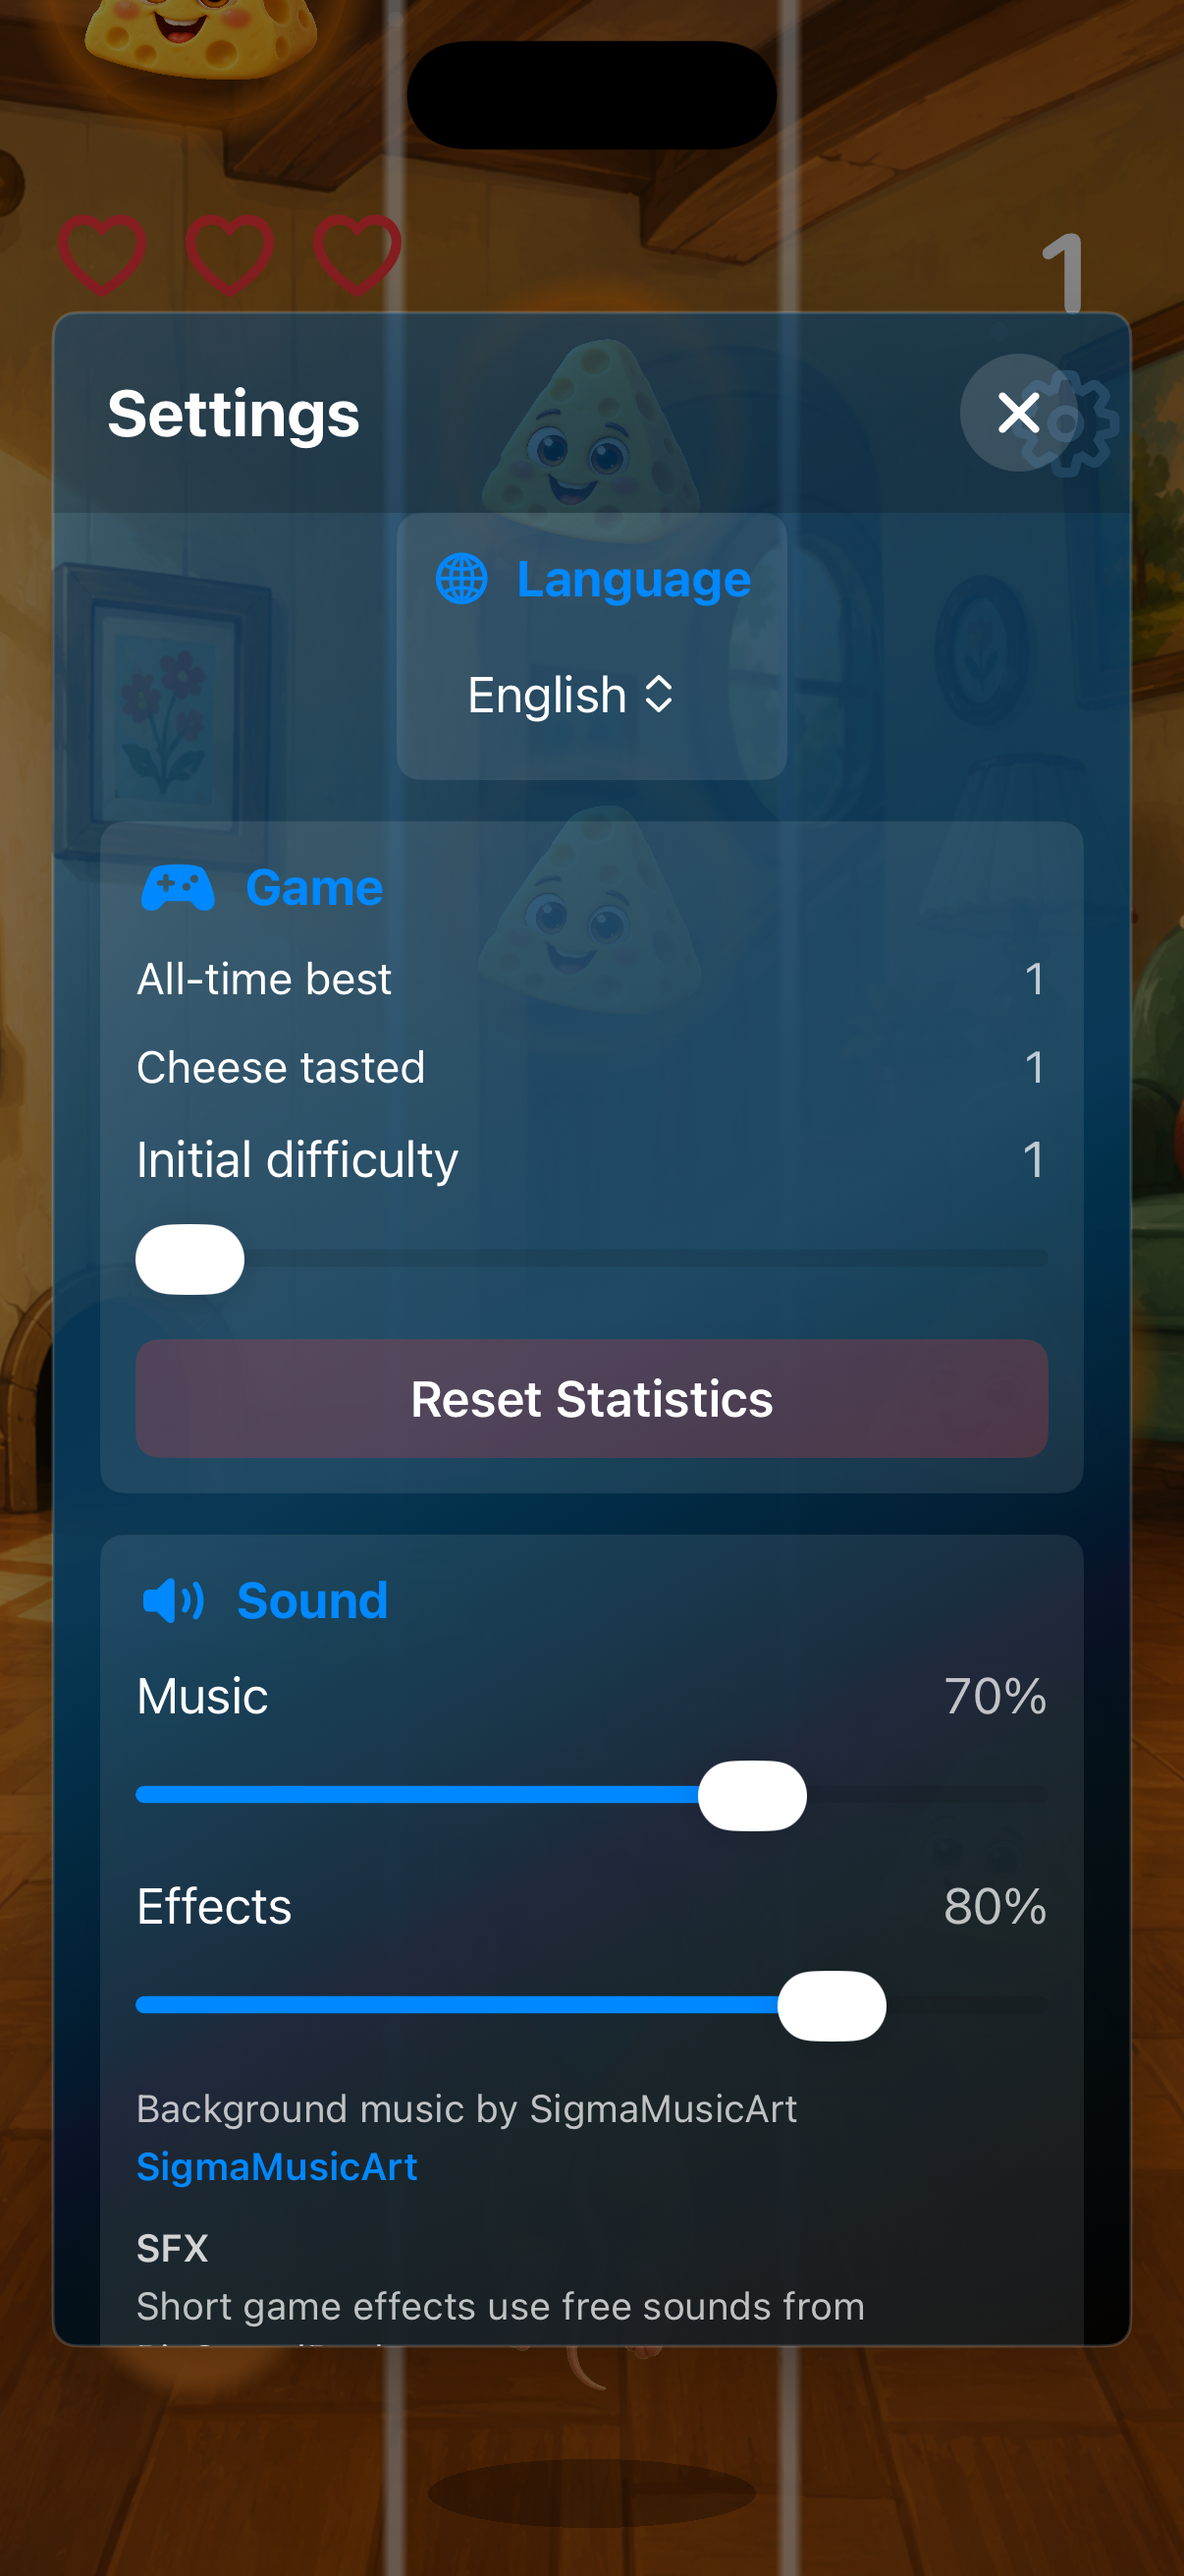
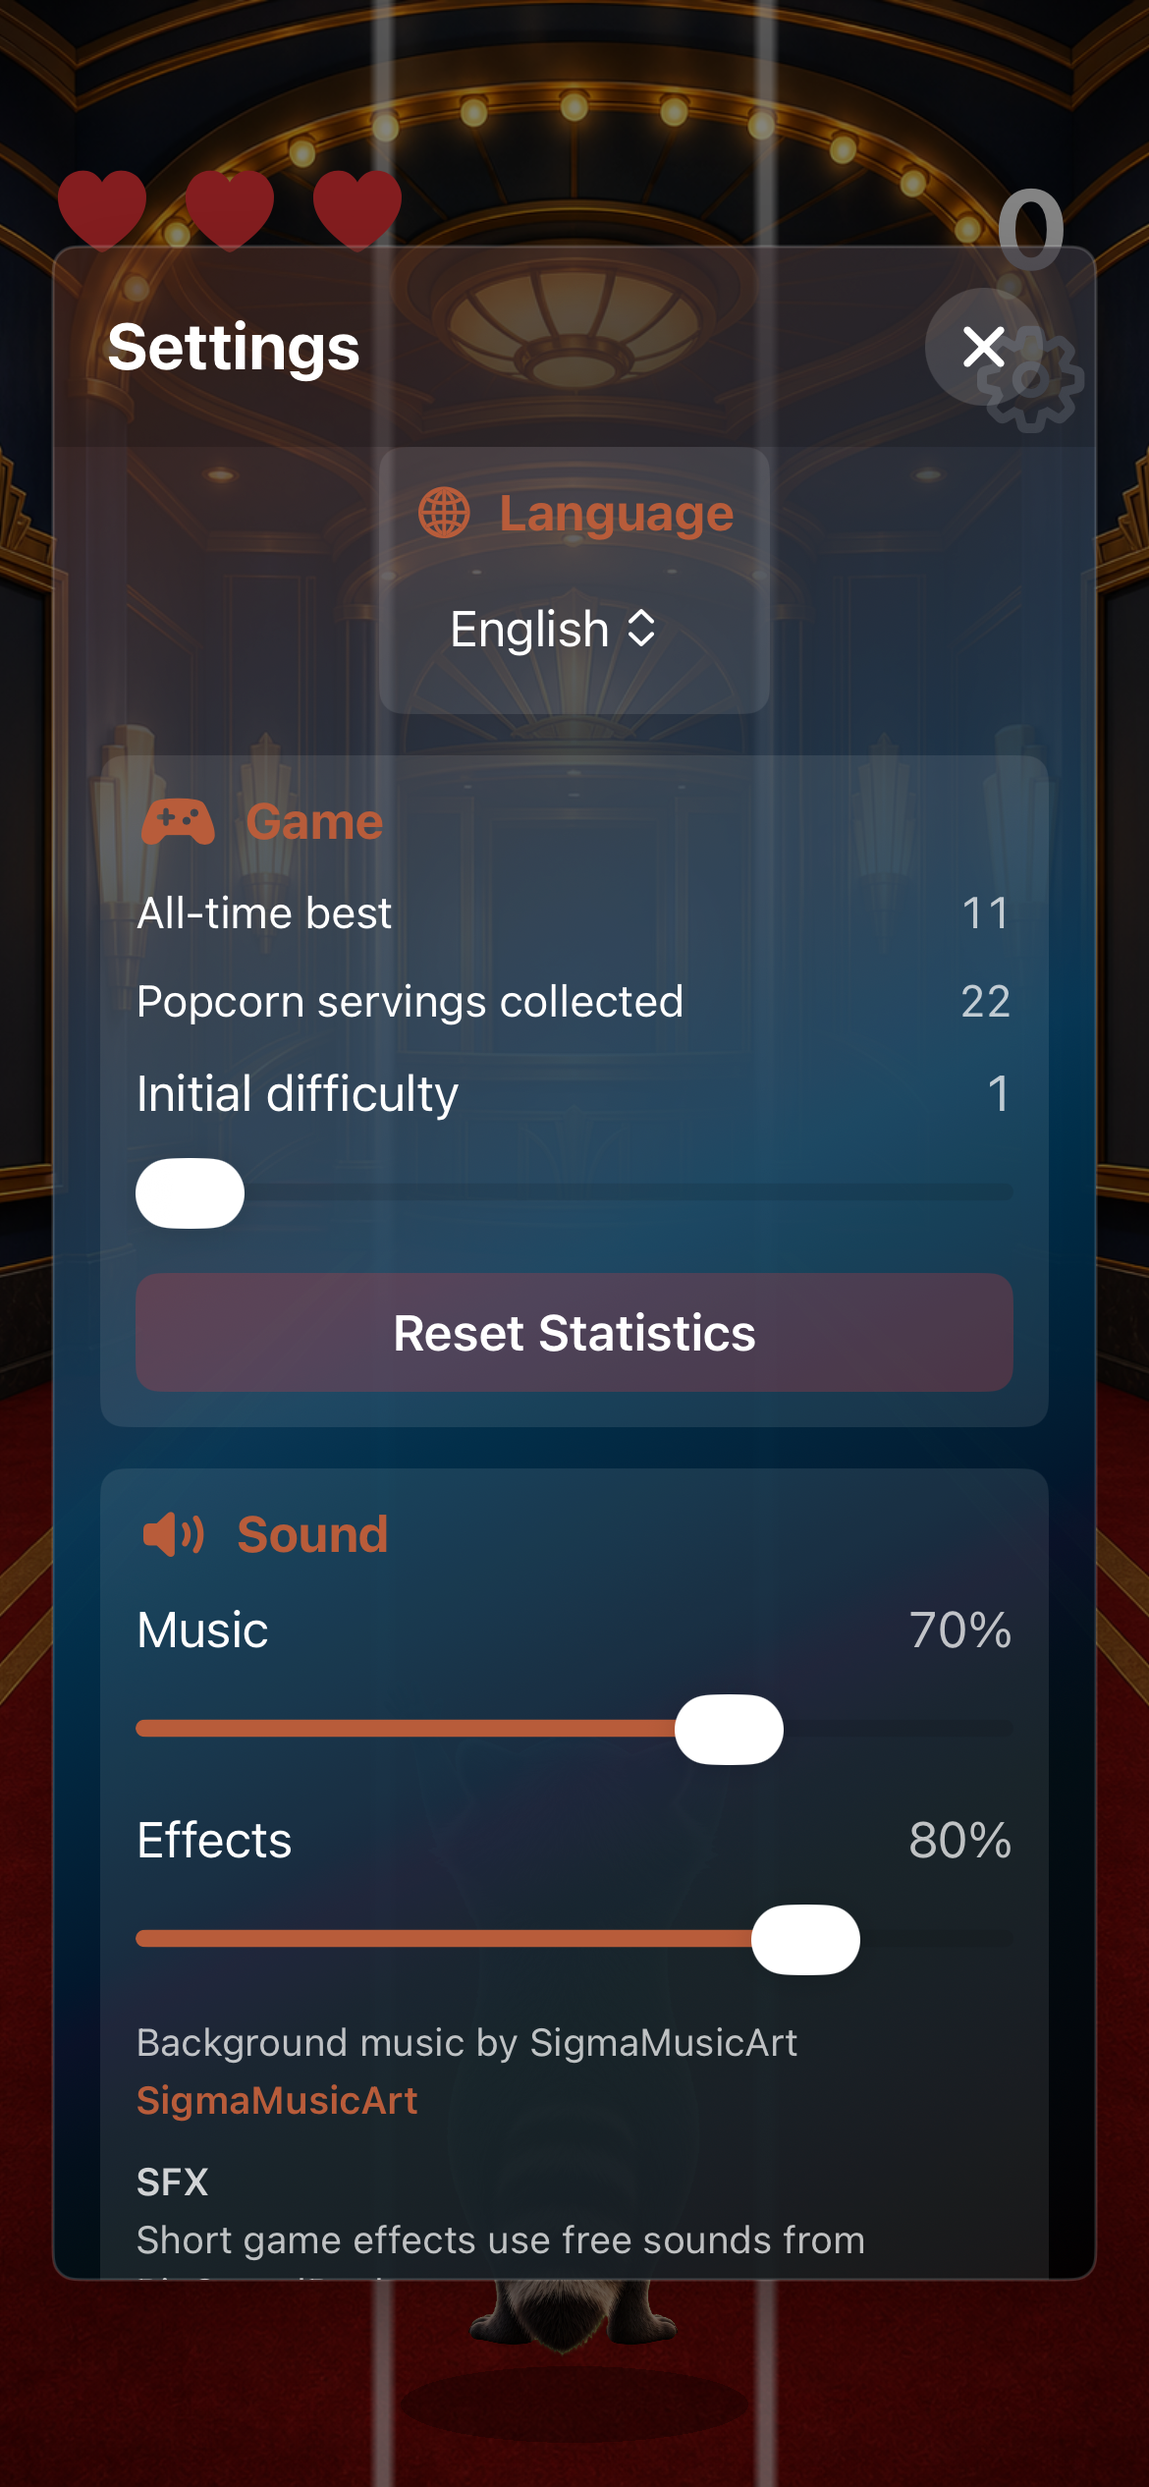
Refresh Simulator screenshots

diff --git a/index.html b/index.html
@@ -96,9 +96,9 @@
           <p>Попкорн, хрумкий попкорн, три доріжки та зручні налаштування — саме так Єнотик Попкорн виглядає на iPhone.</p>
         </div>
         <div class="phone-gallery" aria-label="Скриншоти Єнотик Попкорн">
-          <figure class="phone phone-tall"><div class="phone-screen"><img src="images/screenshot-splash.png?v=20260727-2" alt="Заставка Єнотик Попкорн з Попкорном" loading="lazy"></div><figcaption>Знайомство з Попкорном</figcaption></figure>
-          <figure class="phone phone-center"><div class="phone-screen"><img src="images/screenshot-gameplay.png?v=20260727-3" alt="Ігровий раунд із попкорном на трьох доріжках" loading="lazy"></div><figcaption>Збирайте попкорн</figcaption></figure>
-          <figure class="phone phone-tall"><div class="phone-screen"><img src="images/screenshot-settings.png?v=20260727-3" alt="" loading="lazy"></div><figcaption>Усе під контролем</figcaption></figure>
+          <figure class="phone phone-tall"><div class="phone-screen"><img src="images/screenshot-splash.png?v=20260727-4" alt="Заставка Єнотик Попкорн з Попкорном" loading="lazy"></div><figcaption>Знайомство з Попкорном</figcaption></figure>
+          <figure class="phone phone-center"><div class="phone-screen"><img src="images/screenshot-gameplay.png?v=20260727-4" alt="Ігровий раунд із попкорном на трьох доріжках" loading="lazy"></div><figcaption>Збирайте попкорн</figcaption></figure>
+          <figure class="phone phone-tall"><div class="phone-screen"><img src="images/screenshot-settings.png?v=20260727-4" alt="" loading="lazy"></div><figcaption>Усе під контролем</figcaption></figure>
         </div>
       </div>
     </section>
